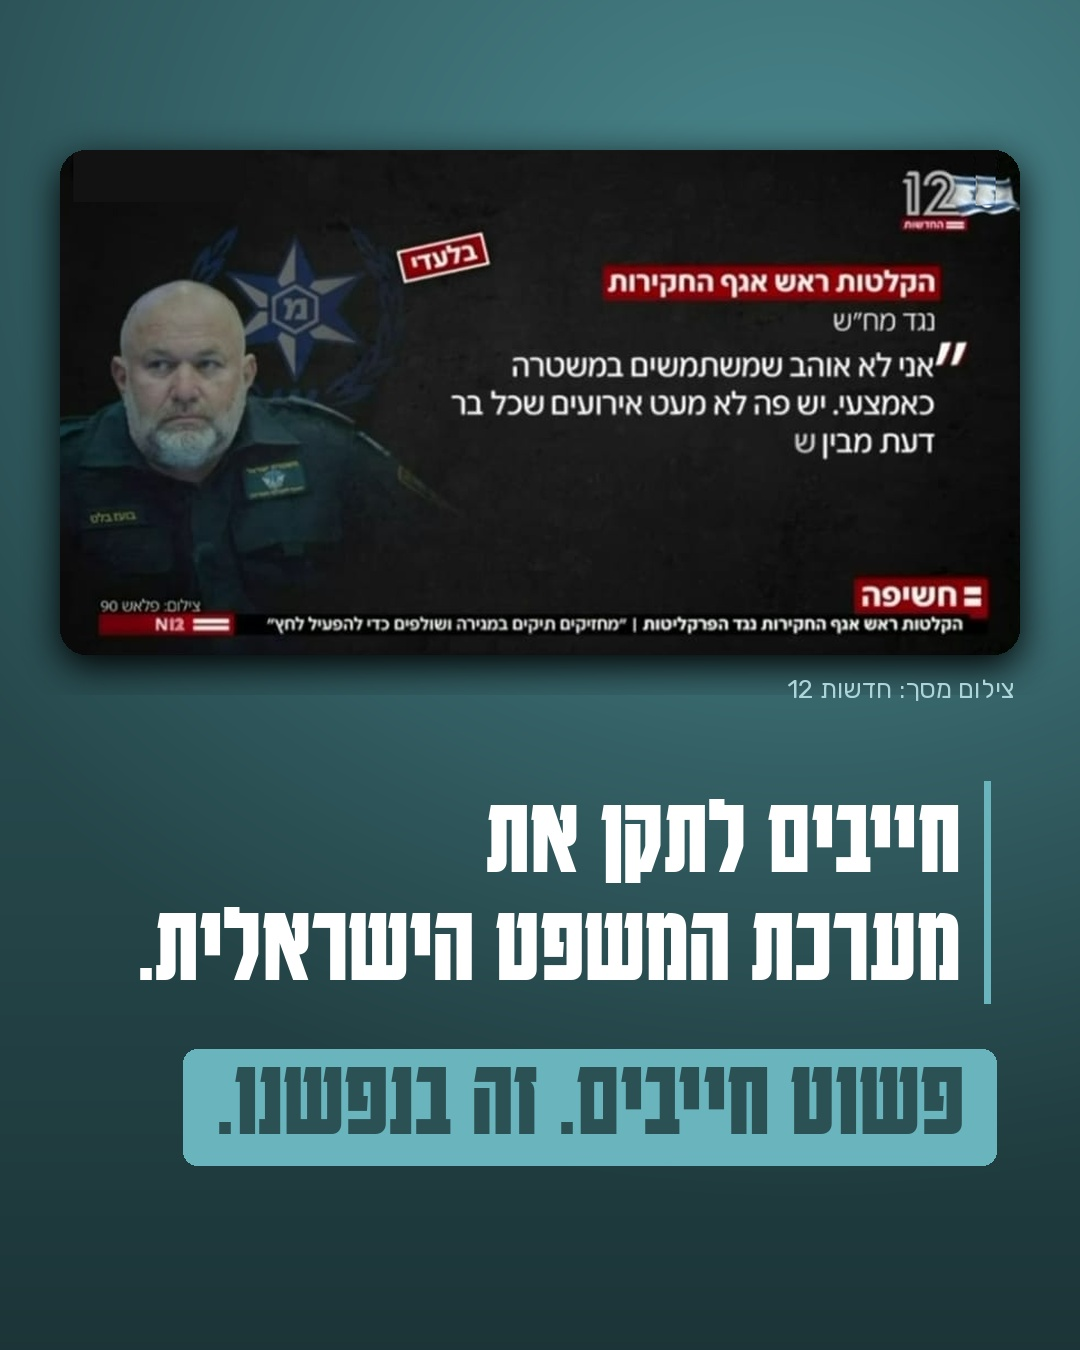
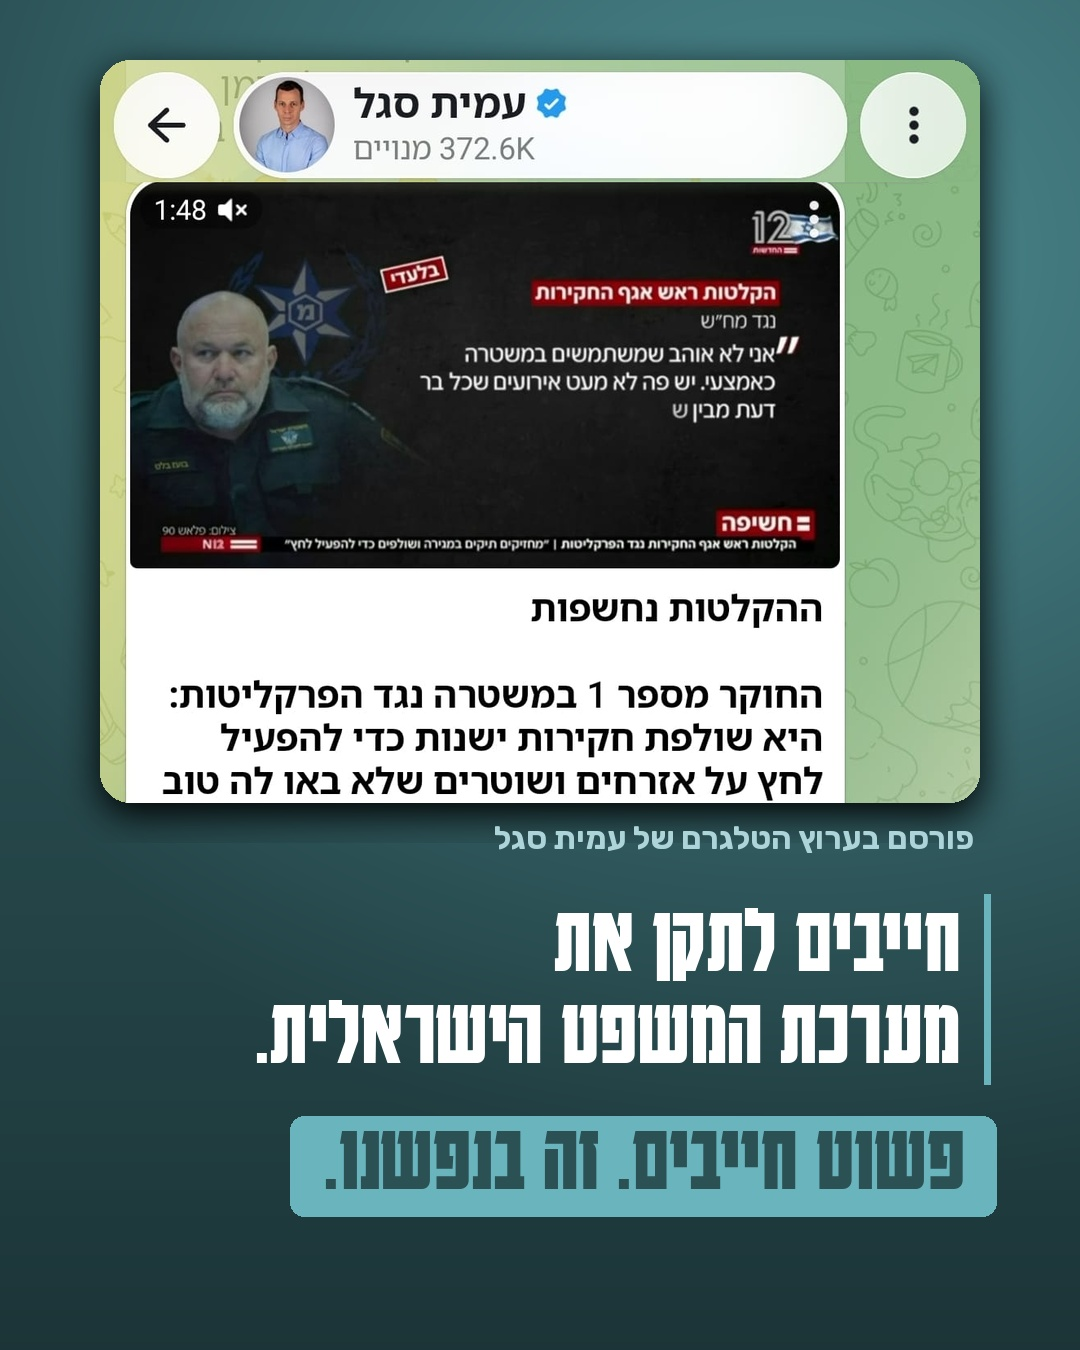
Smotrich post: show it was posted on Amit Segal's Telegram channel
Claude-Session: https://claude.ai/code/session_01RS3QK6pAd3YhyAuXZSJjH1

diff --git a/content-kit/hatzionut-hadatit/2026-11-post-recordings-legal-system/make.py b/content-kit/hatzionut-hadatit/2026-11-post-recordings-legal-system/make.py
@@ -12,21 +12,21 @@ for y in range(H):
         g = max(0, 1 - math.hypot((x - 800) / 900, (y - 300) / 900)); v = 1 - .35 * (y / H) ** 2
         px[x, y] = tuple(int((DEEP[i] + (TEAL[i] - DEEP[i]) * g * .9) * v) for i in range(3))
 im = bg.convert('RGBA'); d = ImageDraw.Draw(im)
-src = Image.open(HERE + '/source-screenshot.jpg').convert('RGB')
-ImageDraw.Draw(src).rectangle((52, 312, 205, 362), fill=(18, 18, 18))   # hide the Telegram player time/mute overlay
-from PIL import ImageFilter as _IF
-_r = (866, 318, 884, 366); patch = src.crop((_r[0] - 20, _r[1], _r[0] - 2, _r[3])); src.paste(patch, (_r[0], _r[1]))   # hide Telegram's menu dots
-src = src.crop((40, 316, 906, 772))   # TV frame only (no Telegram UI)
-cw = 960; card = src.resize((cw, int(cw * src.height / src.width)), Image.LANCZOS)
-m = Image.new('L', card.size, 0); ImageDraw.Draw(m).rounded_rectangle((0, 0, card.width - 1, card.height - 1), 26, fill=255)
+full = Image.open(HERE + '/source-screenshot.jpg').convert('RGB')
+# keep the Telegram look so it's clear this was posted on Amit Segal's channel: channel header + the post (video frame + text);
+# drop the unrelated pinned-message bar and the reactions/views row
+hdr = full.crop((0, 0, full.width, 150)); post = full.crop((0, 300, full.width, 1062))
+src = Image.new('RGB', (full.width, hdr.height + post.height), (0, 0, 0)); src.paste(hdr, (0, 0)); src.paste(post, (0, hdr.height))
+cw = 880; card = src.resize((cw, int(cw * src.height / src.width)), Image.LANCZOS)
+m = Image.new('L', card.size, 0); ImageDraw.Draw(m).rounded_rectangle((0, 0, card.width - 1, card.height - 1), 30, fill=255)
 sh = Image.new('L', (card.width + 80, card.height + 80), 0); sh.paste(m, (40, 52)); sh = sh.filter(ImageFilter.GaussianBlur(18))
-TOP = 150; im.paste((0, 0, 0, 120), (60 - 40, TOP - 40), sh); im.paste(card, (60, TOP), m)
-d.text((W - 66, TOP + card.height + 18), 'צילום מסך: חדשות 12', font=F(FD + 'Rubik-400.ttf', 26), fill=PALE, anchor='ra', direction='rtl')
-R = W - 90; y = TOP + card.height + 120
-d.rectangle((R - 6, y + 6, R, y + 228), fill=LT)
-fk = F(KB, 112)
+TOP = 60; X0 = (W - cw) // 2; im.paste((0, 0, 0, 120), (X0 - 40, TOP - 40), sh); im.paste(card, (X0, TOP), m)
+d.text((X0 + cw - 6, TOP + card.height + 16), 'פורסם בערוץ הטלגרם של עמית סגל', font=F(FD + 'Rubik-700.ttf', 32), fill=PALE, anchor='ra', direction='rtl')
+R = W - 90; y = TOP + card.height + 85
+d.rectangle((R - 6, y + 6, R, y + 196), fill=LT)
+fk = F(KB, 96)
 for i, l in enumerate(['חייבים לתקן את', 'מערכת המשפט הישראלית.']):
-    d.text((R - 30, y + i * 108), l, font=fk, fill=(255, 255, 255), anchor='ra', direction='rtl')
-y2 = y + 2 * 108 + 46; f2 = F(KB, 112); t = 'פשוט חייבים. זה בנפשנו.'; tw = d.textlength(t, font=f2, direction='rtl')
-d.rounded_rectangle((R - tw - 60, y2 + 12, R + 6, y2 + 128), 14, fill=LT); d.text((R - 26, y2), t, font=f2, fill=DEEP, anchor='ra', direction='rtl')
+    d.text((R - 30, y + i * 92), l, font=fk, fill=(255, 255, 255), anchor='ra', direction='rtl')
+y2 = y + 2 * 92 + 34; f2 = F(KB, 96); t = 'פשוט חייבים. זה בנפשנו.'; tw = d.textlength(t, font=f2, direction='rtl')
+d.rounded_rectangle((R - tw - 60, y2 + 10, R + 6, y2 + 110), 14, fill=LT); d.text((R - 26, y2), t, font=f2, fill=DEEP, anchor='ra', direction='rtl')
 im.convert('RGB').save(HERE + '/post.jpg', quality=95); print(y2 + 138)
